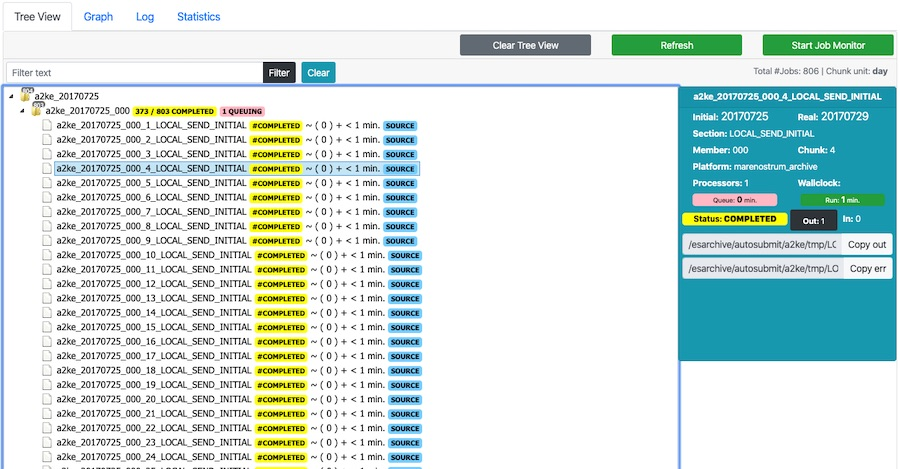
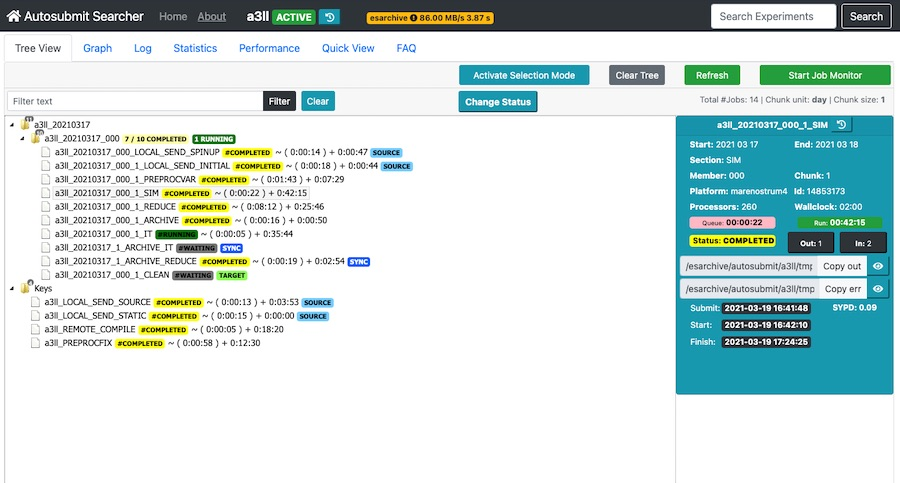
Updating and Expanding Autosubmit and Autosubmit GUI documentation

diff --git a/docs/source/agui/tree.rst b/docs/source/agui/tree.rst
@@ -19,12 +19,13 @@ Inside each group you will find the list of jobs that belong to that group. The 
 
 When you click on a Job, you can see on the right panel (**Selection Panel**) the following information:
 
-- *Initial*: Initial date as in the one used for grouping.
-- *Real*: Real date after adding to the initial date the number of chunk units depending on chunk size.
+- *Start*: Starting date.
+- *End*: Ending date.
 - *Section*: Also known as job type.
 - *Member*
 - *Chunk*
-- *Platform*: HPC Platform.
+- *Platform*: Remote platform.
+- *Id*: Id in the remote platform.
 - *Processors*: Number of processors required by the job.
 - *Wallclock*: Time requested by the job.
 - *Queue*: Time spent in queue, in minutes.
@@ -32,10 +33,20 @@ When you click on a Job, you can see on the right panel (**Selection Panel**) th
 - *Status*: Job status.
 - *Out*: Button that opens a list of jobs that depend on the one selected.
 - *In*: Button that opens a list of jobs on which the selected job depends.
-- *Wrapper*: If the job belongs to a wrapper, the name of the wrapper will be shown.
-- *Code*: Code of the wrapper the job belongs to, for easy searching.
 - *out path*: Path to the .out log file.
 - *err path*: Path to the .err log file.
+- *Submit*: Submit time of the job (If applicable).
+- *Start*: Start time of the job (If applicable).
+- *Finish*: Finish time of the job (If applicable).
+
+.. important:: Next to the **out** and **err** paths, you see the a ``Copy out/err`` button that copies the path to your clipboard. Then you see an ``eye symbol`` button, that when clicked will show that last 150 lines of the **out/err** file.
+
+Selection
+---------
+
+When you click on a job in the tree view, a ``Change Status`` button will appear in the top bar, if you click, you will be presented with the option to generate a change status command that can be run on autosubmit, or to generate a format that can be used to change the status of the job while the experiment is running.
+
+You can select many jobs at the same time by maintaining ``CTRL`` pressed and clicking on the jobs, then the generated command will include all these jobs.
 
 Monitoring
 ----------

diff --git a/docs/source/agui/experiment.rst b/docs/source/agui/experiment.rst
@@ -13,8 +13,8 @@ This component offers the main information about your experiment.
 
    Experiment Information
 
-At the top left you see the ``Autosubmit Searcher`` home link that will take you back to the :ref:`autosubmitGUIMP`, next to it you see the ``Home`` link that serves the same purpose, then you see the ``About`` link that takes you to a page with important information about the application (including the link to this documentation). Then you see the experiment name and ``status``, which is updated every 5 minutes.
+At the top left you see the ``Autosubmit Searcher`` home link that will take you back to the :ref:`autosubmitGUIMP`, next to it you see the ``Home`` link that serves the same purpose, then you see the ``About`` link that takes you to a page with important information about the application (including the link to this documentation). Then you see the experiment name and ``status``, which is updated every 5 minutes. Next, you see the `run history` button, this button opens a panel that shows information about previous runs of the experiment, only works for experiments running the latest version of Autosubmit. Then, you see the ``esarchive status`` badge, it shows information about the current status of the `esarchive` file system. 
 
-At the bottom you see some relevant metadata, including the ``branch`` of the ``model`` that was used in the experiment, the ``HPC name`` targeted by the experiment, the owned, and the last time the experiment folder was modified, which probably coincides with the creation date of the experiment.
+At the bottom you see some relevant metadata, including the ``branch`` of the ``model`` that was used in the experiment, the ``HPC name`` targeted by the experiment, the owner, the ``version`` that this experiment us running on, the ``DB`` version of Autosubmit, and the number of jobs in the experiment.
 
 On the center you see the :ref:`treeRepresentation`, which is loaded automatically when you open this page.

diff --git a/docs/source/agui/graph.rst b/docs/source/agui/graph.rst
@@ -21,12 +21,13 @@ Once the graph representation is loaded, it will focus on a relevant node accord
 
 When you click on a node, you can see on the right panel (**Selection Panel**) the following information:
 
-- *Initial*: Initial date as in the one used for grouping.
-- *Real*: Real date after adding to the initial date the number of chunk units depending on chunk size.
+- *Start*: Starting date.
+- *End*: Ending date.
 - *Section*: Also known as job type.
 - *Member*
 - *Chunk*
-- *Platform*: HPC Platform.
+- *Platform*: Remote platform.
+- *Id*: Id in the remote platform.
 - *Processors*: Number of processors required by the job.
 - *Wallclock*: Time requested by the job.
 - *Queue*: Time spent in queue, in minutes.
@@ -36,6 +37,18 @@ When you click on a node, you can see on the right panel (**Selection Panel**) t
 - *In*: Button that opens a list of jobs on which the selected job depends.
 - *out path*: Path to the .out log file.
 - *err path*: Path to the .err log file.
+- *Submit*: Submit time of the job (If applicable).
+- *Start*: Start time of the job (If applicable).
+- *Finish*: Finish time of the job (If applicable).
+
+.. important:: Next to the **out** and **err** paths, you see the a ``Copy out/err`` button that copies the path to your clipboard. Then you see an ``eye symbol`` button, that when clicked will show that last 150 lines of the **out/err** file.
+
+Selection
+---------
+
+When you click on a node in the tree view, a ``Change Status`` button will appear in the top bar, if you click, you will be presented with the option to generate a change status command that can be run on autosubmit, or to generate a format that can be used to change the status of the job while the experiment is running.
+
+You can select many nodes at the same time by maintaining ``CTRL`` pressed and clicking on the nodes, then the generated command will include all these jobs.
 
 Wrappers Representation
 -----------------------

diff --git a/docs/source/autosubmit-gui.rst b/docs/source/autosubmit-gui.rst
@@ -6,7 +6,7 @@ Autosubmit GUI
 Autosubmit GUI Main Page
 ========================
 
-Inside the Barcelona Supercomputing Internal Network you can find the latest version of Autosubmit GUI deployed for BSC users. It can be accessed by following the url http://bscesweb04.bsc.es/autosubmitapp/. This is a graphic user interface that allows you to easily monitor your experiments and those of your colleagues. This Web App introduces many useful features for experiment monitoring, and we are continuously improving it.
+Inside the Barcelona Supercomputing Internal Network you can find the latest version of Autosubmit GUI deployed for BSC users. It can be accessed by following the url http://bscesweb04.bsc.es/autosubmitapp/ or https://earth.bsc.es/autosubmitapp/. This is a graphic user interface that allows you to easily monitor your experiments and those of your colleagues. This Web App introduces many useful features for experiment monitoring, and we are continuously improving it.
 
 .. note:: The Web App can also be accessed through the VPN Client provided by BSC.
 
@@ -82,6 +82,7 @@ After clicking on the **MORE** button, you will be presented with the **Experime
    agui/tree
    agui/graph
    agui/log
+   agui/performance
    agui/statistics
 
 .. important:: To improve response times, Autosubmit GUI will try to store the dependency structure of your experiment in a database filed called ``structure_expid.db`` where ``expid`` is the name of your experiment. This file will be located in ``/esarchive/autosubmit/expid/pkl/``.

diff --git a/docs/source/usage/run_members.rst b/docs/source/usage/run_members.rst
@@ -1,0 +1,26 @@
+How to run only selected members
+================================
+
+To run only a subset of selected members you can execute the command:
+::
+
+    autosubmit run EXPID -rm MEMBERS
+  
+*EXPID* is the experiment identifier, the experiment you want to run.
+
+*MEMBERS* is the selected subset of members. Format `member1 member2 member2`, example: `fc0 fc1 fc2`.
+
+Then, your experiment will start running jobs belonging to those members only. If the experiment was previously running and autosubmit was stopped when some jobs belonging to other members (not the ones from your input) where running, those jobs will be tracked and finished in the new exclusive run.
+
+Furthermore, let's say you wish to run a sequence of only members execution. Then, instead of running `autosubmit run -rm member_1` ... `autosubmit run -rm member_n`, you can make a bash file with that sequence and run the bash file. Example:
+::
+
+    #!/bin/bash
+    autosubmit run EXPID -rm MEMBER_1
+    autosubmit run EXPID -rm MEMBER_2
+    autosubmit run EXPID -rm MEMBER_3
+    ...
+    autosubmit run EXPID -rm MEMBER_N
+
+
+

diff --git a/docs/source/agui/performance.rst b/docs/source/agui/performance.rst
@@ -1,0 +1,20 @@
+.. _performance:
+
+Performance Metrics
+===================
+
+The Performance Metrics tabs offers a set of metrics that try to measure the efficiency of the simulation performed, and other aspects of it.
+
+.. figure:: fig_performance_1.jpg
+   :name: experiment_performance
+   :width: 100%
+   :align: center
+   :alt: Performance Metrics 1
+
+   Performance Metrics Tab
+
+On the left you have the values of the main performance metrics that apply to the experiment. Then, on the right, you see the list of jobs considered for this calculation with their data, also, ``SYPD`` and ``ASYPD`` are calculated individually for these jobs. This list is scrollable.
+
+You can also access a ``Show warnings`` button that opens a list of important information that might affect the calculation of the metrics. You can click again on this button to close the list.
+
+Further information about the metrics is included in the tab.

diff --git a/docs/source/usage.rst b/docs/source/usage.rst
@@ -33,6 +33,7 @@ Command list
    usage/check
    usage/describe
    usage/run
+   usage/run_members
    usage/start_time
    usage/start_after
    usage/inspect
